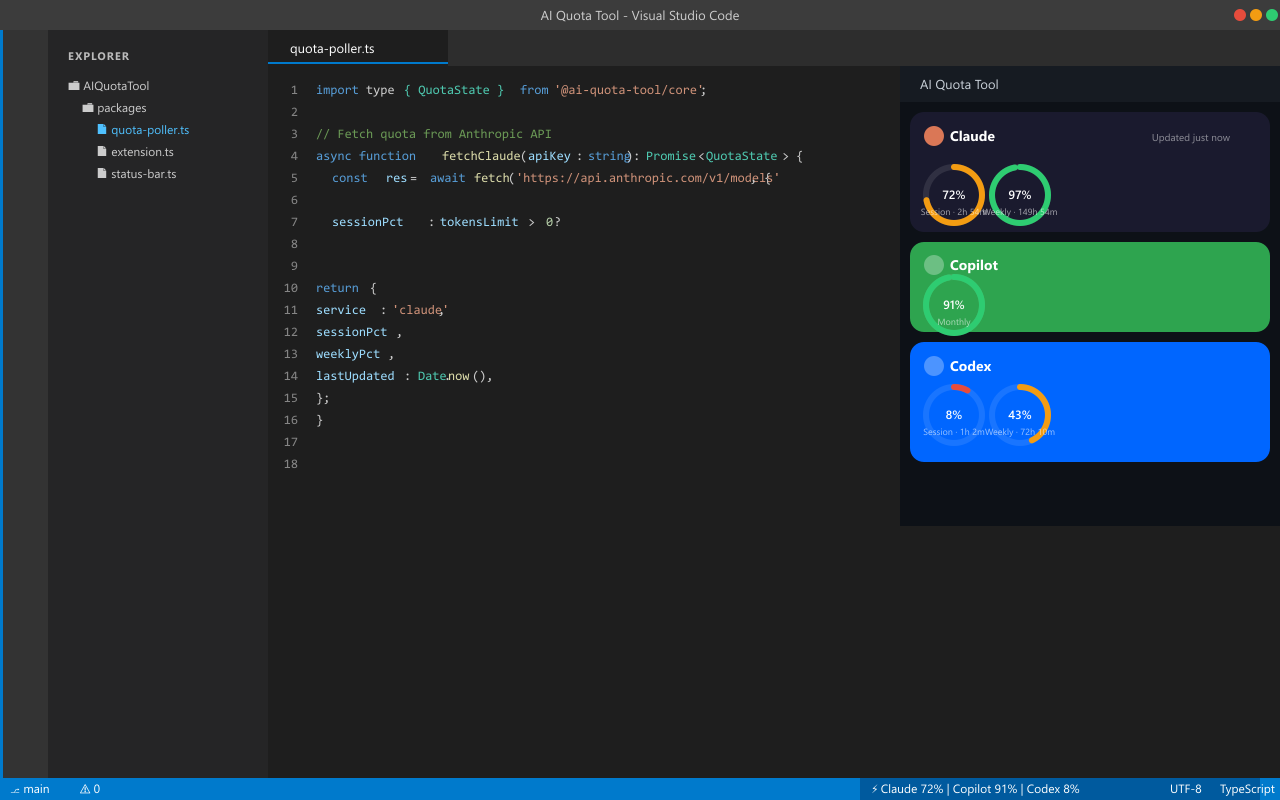
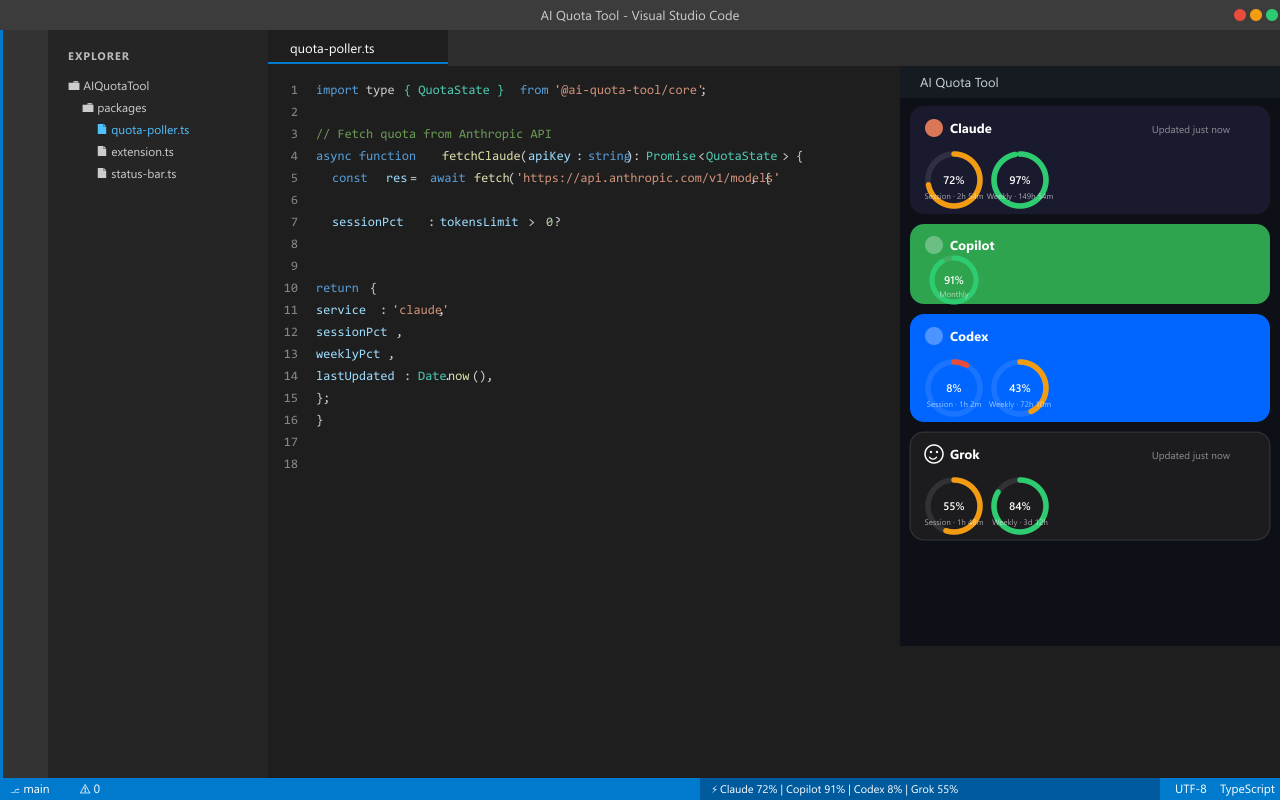
feat: show Grok as a peer service in marketplace and dashboard UI
Marketplace hero includes a Grok card and status-bar segment; Grok card uses elevated charcoal with an edge so it reads on dark panels. Docs and Features copy match SecretStorage sso setup.

diff --git a/packages/ui/src/components/QuotaPendingCard.tsx b/packages/ui/src/components/QuotaPendingCard.tsx
@@ -32,6 +32,7 @@ interface Props {
 
 export function QuotaPendingCard({ service, needsReauth = false }: Props) {
   const reauth = needsReauth && REAUTH_HINTS[service] != null;
+  const isGrok = service === 'grok';
   return (
     <div
       style={{
@@ -41,7 +42,11 @@ export function QuotaPendingCard({ service, needsReauth = false }: Props) {
         marginBottom: 10,
         boxShadow: '0 4px 16px rgba(0,0,0,0.35)',
         opacity: reauth ? 0.85 : 0.55,
-        outline: reauth ? '1px solid rgba(227, 179, 65, 0.55)' : undefined,
+        outline: reauth
+          ? '1px solid rgba(227, 179, 65, 0.55)'
+          : isGrok
+            ? '1px solid rgba(255,255,255,0.14)'
+            : undefined,
       }}
     >
       <div style={{ display: 'flex', alignItems: 'center', justifyContent: 'space-between', marginBottom: 12 }}>

diff --git a/packages/ui/src/components/QuotaCard.tsx b/packages/ui/src/components/QuotaCard.tsx
@@ -22,6 +22,8 @@ export function QuotaCard({ state }: Props) {
   const deepLinkHost =
     state.service === 'grok' && state.honesty != null ? SERVICE_URLS.grok : null;
 
+  const isGrok = state.service === 'grok';
+
   return (
     <div
       style={{
@@ -30,6 +32,8 @@ export function QuotaCard({ state }: Props) {
         padding: '16px 18px',
         marginBottom: 10,
         boxShadow: '0 4px 16px rgba(0,0,0,0.35)',
+        // Grok is near-black; a light edge keeps it peer-visible on dark panels
+        outline: isGrok ? '1px solid rgba(255,255,255,0.14)' : undefined,
       }}
     >
       <ServiceHeader service={state.service} lastUpdated={state.lastUpdated} />

diff --git a/packages/ui/src/dev.tsx b/packages/ui/src/dev.tsx
@@ -32,8 +32,10 @@ const MOCK_STATES: QuotaState[] = [
   },
   {
     service: 'grok',
-    weeklyPct: 62,
-    weeklyResetsAt: Date.now() + 4 * 24 * 60 * 60 * 1000,
+    sessionPct: 55,
+    weeklyPct: 84,
+    sessionResetsAt: Date.now() + 1 * 60 * 60 * 1000 + 48 * 60 * 1000,
+    weeklyResetsAt: Date.now() + 3 * 24 * 60 * 60 * 1000 + 12 * 60 * 60 * 1000,
     lastUpdated: Date.now() - 20_000,
   },
 ];

diff --git a/packages/core/src/types.ts b/packages/core/src/types.ts
@@ -80,7 +80,8 @@ export const SERVICE_COLORS: Record<ServiceId, string> = {
   claude: '#1a1a2e',
   copilot: '#2ea44f',
   codex: '#0066ff',
-  grok: '#111111',
+  /** Elevated charcoal so the card reads on #0d1117 panels (not pure black). */
+  grok: '#1c1c1e',
 };
 
 export const SERVICE_URLS: Record<ServiceId, string> = {

diff --git a/README.md b/README.md
@@ -1,6 +1,6 @@
 # AI Quota Tool
 
-Monitor your remaining AI quota for **Claude**, **GitHub Copilot**, **OpenAI Codex**, and (optionally) **Grok** - primarily as a **VS Code extension**.
+Monitor your remaining AI quota for **Claude**, **GitHub Copilot**, **OpenAI Codex**, and **Grok** - primarily as a **VS Code extension**.
 
 ## Product surface (V1)
 
@@ -18,17 +18,17 @@ Monitor your remaining AI quota for **Claude**, **GitHub Copilot**, **OpenAI Cod
 
 ```
 VS Code Extension
-  - Standalone Node poller (Claude sessionKey, Codex session token, GitHub OAuth)
-  - SecretStorage for Claude/Codex session secrets (treat like passwords)
-  - Webview dashboard + status bar (min session/weekly remaining; honest Copilot states)
+  - Standalone Node poller (Claude sessionKey, Codex session token, Grok sso, GitHub OAuth)
+  - SecretStorage for Claude / Codex / Grok session secrets (treat like passwords)
+  - Webview dashboard + status bar (min session/weekly remaining; honest Copilot/Grok states)
   - Optional: receive Chrome WS push on 127.0.0.1:54321 (not required for V1)
 ```
 
-**Credentials:** VS Code **stores** Claude and ChatGPT session cookies in SecretStorage - never claim product-wide “no credentials stored.” Validate on save (Save & Test), replace, clear via **Set Up Accounts**. Expired sessions drop the ring and show re-auth; secrets are not auto-deleted. See `packages/vscode-ext/README.md`.
+**Credentials:** VS Code **stores** Claude, ChatGPT, and Grok session cookies in SecretStorage - never claim product-wide “no credentials stored.” Validate on save (Save & Test), replace, clear via **Set Up Accounts**. Expired sessions drop the ring and show re-auth; secrets are not auto-deleted. See `packages/vscode-ext/README.md`.
 
 **Copilot:** Seat/plan can be detected; remaining usage % is often unavailable from GitHub. The UI shows honest status instead of inventing 100% remaining.
 
-**Grok:** See [`docs/GROK-SPEC.md`](docs/GROK-SPEC.md). VS Code does not store Grok secrets; honesty or optional Chrome push only until first-party weekly used% is validated.
+**Grok:** See [`docs/GROK-SPEC.md`](docs/GROK-SPEC.md). VS Code stores the grok.com `sso` cookie and polls rate-limits (plus SuperGrok weekly pool when available). Optional Chrome live session remains a freshest-wins merge path.
 
 ---
 

diff --git a/packages/vscode-ext/README.md b/packages/vscode-ext/README.md
@@ -2,14 +2,15 @@
 
 Monitor your remaining AI quota for **Claude**, **GitHub Copilot**, **OpenAI Codex**, and **Grok** - live in VS Code (v0.7.3).
 
-![Status bar showing Claude 72% | Copilot 91% | Codex 8%](https://raw.githubusercontent.com/BasantPandey/AIQuotaTool/main/packages/vscode-ext/docs/statusbar.png)
+![Status bar showing Claude 72% | Copilot 91% | Codex 8% | Grok 55%](https://raw.githubusercontent.com/BasantPandey/AIQuotaTool/main/packages/vscode-ext/docs/statusbar.png)
 
 ---
 
 ## Features
 
-- **Status bar item** — remaining quota at a glance using the lower of session/weekly %; amber when any service drops below 10%
-- **Dashboard panel** — full quota breakdown with session and weekly progress rings (or honest Copilot status without fake %)
+- **Status bar item** — remaining quota at a glance for Claude, Copilot, Codex, and Grok (lower of session/weekly %); amber when any service drops below 10%
+- **Dashboard panel** — full quota breakdown with session and weekly progress rings (or honest Copilot / Grok status without fake %)
+- **Grok** — paste grok.com `sso` cookie in Set Up Accounts; short-window rate-limits plus SuperGrok weekly pool when available
 - **Standalone (V1 product)** — fetches quota directly from VS Code using your session credentials; **no Chrome extension required**
 - **Optional Chrome push** — if you also run the legacy Chrome package, it may merge readings over local WebSocket (freshest-wins); not required
 - **Automatic refresh** — polls every 60 seconds in the background
@@ -82,7 +83,7 @@ A Chrome extension package may exist in this monorepo for optional browser-sessi
 ## Requirements
 
 - VS Code 1.95 or later
-- Active accounts on the services you want to monitor (Claude Pro/Free, GitHub Copilot, ChatGPT)
+- Active accounts on the services you want to monitor (Claude Pro/Free, GitHub Copilot, ChatGPT, Grok)
 
 ---
 

diff --git a/docs/GROK-SPEC.md b/docs/GROK-SPEC.md
@@ -80,14 +80,14 @@ Either surface can show Grok honestly alone. Together, Chrome can push fresher G
 | G-I1 | Dashboard card | Shared UI lists Grok with other services |
 | G-I2 | Known weekly | When `weeklyPct` present: weekly ring + optional reset; no session ring; no effort/mode sub-rows |
 | G-I3 | Unknown / honesty | Honesty label + deep-link; no fake rings |
-| G-I4 | Pending / VS Code alone | Hint: Chrome on grok.com; VS Code does not store Grok secrets |
+| G-I4 | Pending / VS Code alone | Hint: Set Up Accounts for grok.com `sso` cookie (or optional Chrome on grok.com) |
 | G-I5 | Tier copy | Card title **Grok** only for this bar; SuperGrok / X Premium badges deferred until first-party plan signal |
 
 ### 2.5 Quality
 
 | ID | Requirement | Acceptance |
 | --- | --- | --- |
-| G-T1 | Pure seam tests | Vitest (or equivalent) on Grok honesty builders, weekly map, session-auth exclusion of Grok |
+| G-T1 | Pure seam tests | Vitest (or equivalent) on Grok honesty builders, weekly/session maps, session-auth for Grok |
 | G-T2 | Hosts thin | Chrome/VS Code call pure core mapping; do not re-implement remaining math in hosts |
 
 ---
@@ -99,7 +99,7 @@ Either surface can show Grok honestly alone. Together, Chrome can push fresher G
 | Grok honesty builders | `usage_unknown` / `not_connected` / `browser_session_required` → `QuotaState` without % |
 | Weekly map | First-party used% (0–100) → `weeklyPct` remaining (+ optional reset) |
 | Optional extract | Parse usage-shaped JSON only when fields are explicit used% in 0–100 |
-| Session-cookie policy | Claude/Codex only; Grok false |
+| Session-cookie policy | Claude/Codex/Grok (`sessionAuthFailureAction`); Chrome live session still no stored Grok keys |
 | Merge / pressure | Service-agnostic; honesty never invents full remaining |
 
 ---

diff --git a/docs/ARCHITECTURE.md b/docs/ARCHITECTURE.md
@@ -55,10 +55,10 @@ Shared `QuotaState` model in `@ai-quota-tool/core`. Optional dual-source merge u
 6. **Grok:** live `grok.com` session only; honesty-first until SuperGrok weekly used% payload is validated; never store session keys.
 
 ### VS Code
-1. `QuotaPoller` every 60s using stored Claude/Codex secrets and GitHub OAuth token.
-2. Pure mappers: `mapClaudeUsage` / `mapCodexUsage` from `@ai-quota-tool/core`.
+1. `QuotaPoller` every 60s using stored Claude/Codex/Grok secrets and GitHub OAuth token.
+2. Pure mappers: `mapClaudeUsage` / `mapCodexUsage` / `mapGrokRateLimits` (+ weekly combine) from `@ai-quota-tool/core`.
 3. Copilot: honest builders when remaining % is unavailable (no fake 100%).
-4. **Grok:** no SecretStorage; if no Chrome push yet, inject `grokBrowserSessionRequired` so the slot is always present.
+4. **Grok:** SecretStorage `sso` cookie → `POST /rest/rate-limits` (+ SuperGrok weekly when available). No secret and no fresher Chrome push → inject `grokBrowserSessionRequired` so the slot is always present.
 5. Chrome WS payloads merge with `upsertQuotaState` (freshest-wins).
 6. Status bar shows min(session, weekly) remaining; amber below 10%. Empty → Set Up Accounts.
 

diff --git a/packages/ui/src/assets/logos/README.md b/packages/ui/src/assets/logos/README.md
@@ -7,7 +7,8 @@ Drop the brand logo files here. The `ServiceHeader` component loads them automat
 | `claude.svg` | Anthropic Claude | SVG (coral/orange `#CC785C`) |
 | `copilot.svg` | GitHub Copilot | SVG |
 | `codex.svg` | OpenAI Codex | SVG |
+| (inline) | Grok | Drawn in `components/logos.tsx` (monochrome mark, not an official brand asset) |
 
-PNG at 48×48 also accepted — just name them `claude.png`, `copilot.png`, `codex.png`.
+PNG at 48×48 also accepted for Claude/Copilot/Codex — name them `claude.png`, `copilot.png`, `codex.png`.
 
 These files are gitignored (`packages/ui/src/assets/logos/*.svg` and `*.png`).
